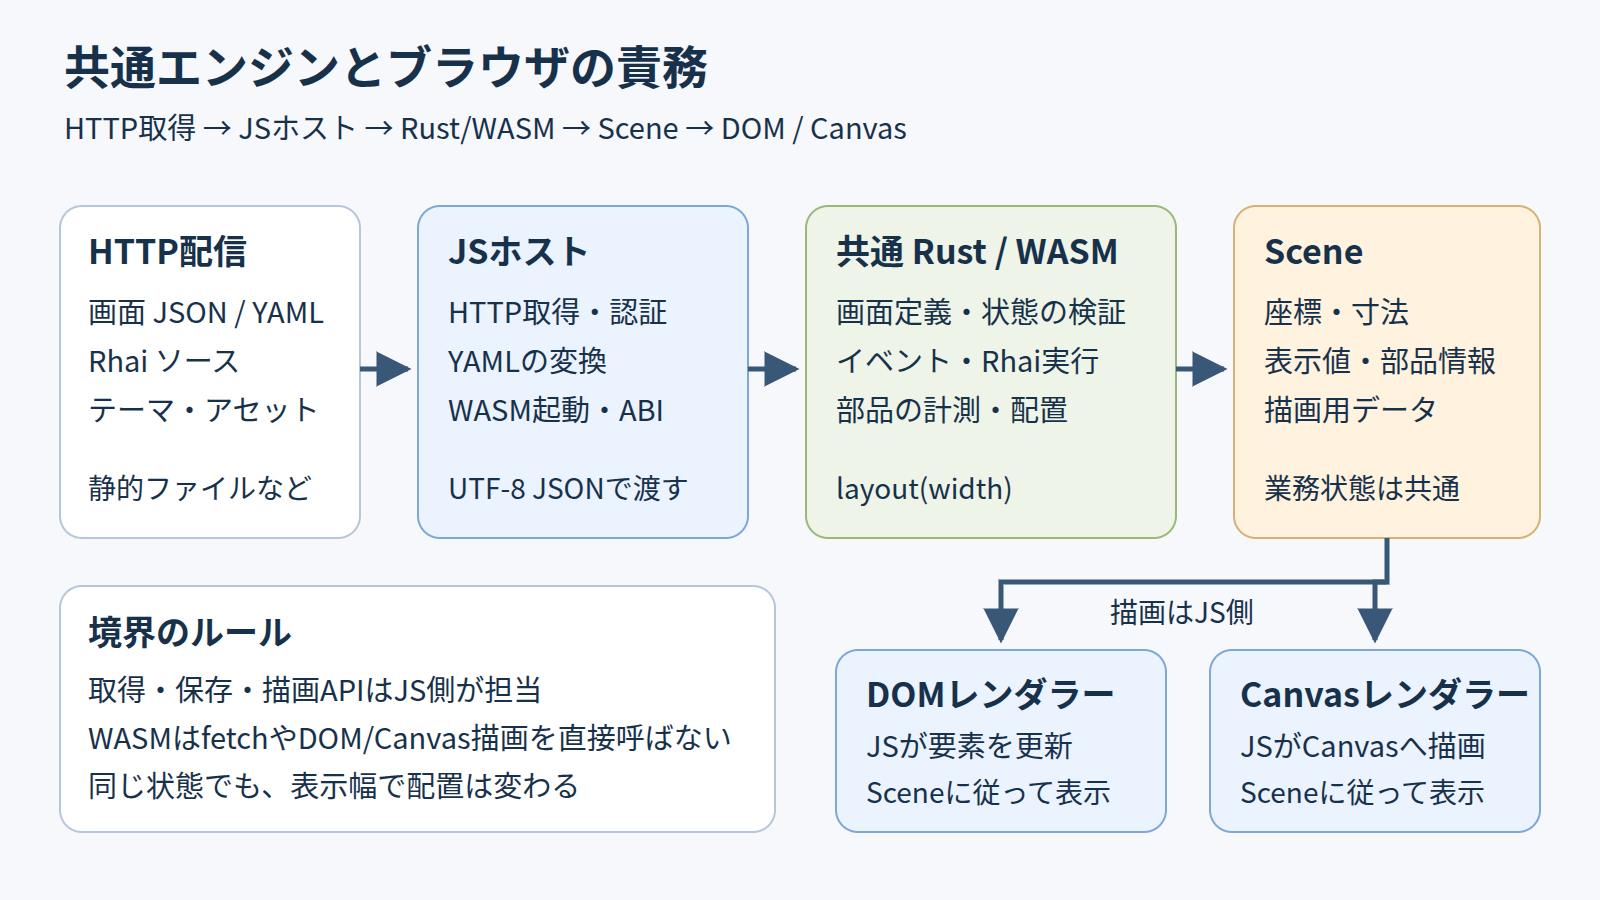
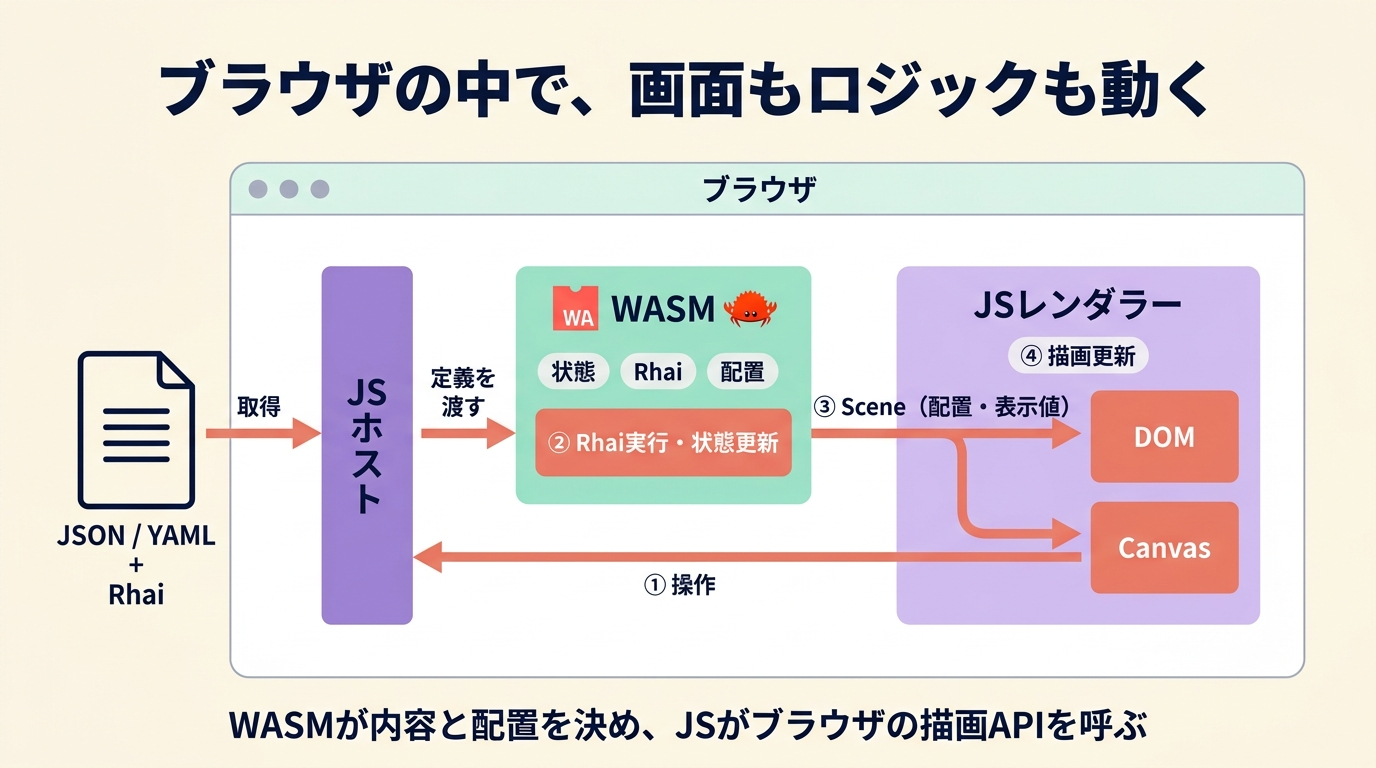
docs: enrich uivolve retrospective blog

diff --git a/.gsd-lite/BLOG-EVIDENCE.md b/.gsd-lite/BLOG-EVIDENCE.md
@@ -1,6 +1,6 @@
 # 開発振り返り記事 根拠台帳
 
-状態: T5の文書入口・最終要件照合・最終判定まで完了。独立したverifyへ引き継ぐ。機械検査は文章の正しさや画像の可読性を認定しない。
+状態: 初稿はT5とverify/reflectまで完了。ユーザーの文体・出発点の指摘を受け、下記「初稿への編集修正」で本文を改稿。機械検査は文章の正しさや文体の好み、画像の可読性を認定しない。以下のT1〜T5の字数・判定は初稿の記録。
 
 ## 必須8内容と主張照合
 
@@ -105,3 +105,13 @@
 - 本文7926字、AI1979字、24.968%。PNG実寸はarchitecture 1600×900、event-flow 1600×1100、host-effects 1600×1080、dom-canvas 1225×296。再撮影でCPU計測表示だけが変わり、実比較領域をそのまま保存。
 - 最終ログ: `.gsd-lite/logs/development-retrospective-blog/verification-1791168900750.log`。撮影証跡: 同scratchの`capture-1791168907119.json`。Chromium 152.0.7977.64/Linux、127.0.0.1:4174/pages/hello-world、1440×1000、deviceScaleFactor=1。DOM/Canvas各起点・入力のみ不変・空白World・最後に太郎の11チェック成功、failure=null、serverStopped=true、cleanupErrors=[]。
 - 独立再実行はリポジトリルートで `bun scripts/verify-retrospective.mjs`。追跡済みの検査/撮影スクリプトとPNGを使い、scratch制作ソースや起動済みサーバーを前提にしない。既存Chromium `/usr/bin/chromium-browser` と可視ブラウザ用DISPLAY、空いている4174が必要。実行時の証跡はlogsへ生成する。公開/pushは行わない。
+
+## 初稿への編集修正
+
+- ユーザー指摘: 「ポップって感じでもない」「uivolveの元の考え方も入っていない」。初稿の見出し・絵文字・技術検査だけでは、この意図を満たしていなかった。
+- 原資料: `/home/parallels/workspaces/uivolve/README.md`、HEADは `3d22a3cfab5488afe3c60f8775676a85c51593ec`（docs/uivolve-port.mdの参照元と同じ）。公開先のREADMEへの固定commitリンクを本文と参考リンクへ追加。
+- 原READMEの冒頭/クイックスタート/イベント宣言/Markdown・MDX統合を確認。「モックを素早く作る→DSLと使用部品のリファレンスをAIへ渡して任意のUIライブラリで本実装」「仕様書とモックを同じソースで管理」「元のhandlerは宣言のみ」を新しい出発点の根拠にした。
+- 改稿は、この目的から今回のstate/Rhai実行・Scene・WebMCP・Workerモック/UTへつながる順で説明。元のMarkdown統合やAI用コピーがuivolve-webへ移植済みとは書かない。長い検証手順や防御的な注意文を本文の流れから減らし、短い段落と具体例、丁寧な呼びかけで文体を改めた。
+- Worker YAMLを2件のseedがあるミニ版へ変更し、直後のUTの2件期待値と一致させた。その他の掲載JSON/Rhai/実WASM/モデルUTは現行の完全例へ照合。
+- 再実行: `bun .gsd-lite/logs/development-retrospective-blog/scratch/editorial-revision-excerpts.mjs`。本文からJSON/Rhai/YAML/JavaScriptを抽出し、実WASM/モデルで成功。入力のみ不変・Hello 太郎・Scene・空白World、ミニYAMLと完全definitionの2件を確認。OPFSの20試行/5697秒も再集計。結果は同scratchのeditorial-revision-results.json。
+- `bun scripts/check-retrospective.mjs --stage complete`: 本文7735字、AI1917字（24.783%）、8節/コード例/相対画像リンク/PNG4枚/入口1件成功。既存の画像とランタイムを変更していないため、今回の修正で全ブラウザ撮影やランタイム全回帰は繰り返さない。

diff --git a/.gsd-lite/DECISIONS.md b/.gsd-lite/DECISIONS.md
@@ -1,5 +1,18 @@
 # 開発振り返りブログ 決定記録
 
+## 将来メモ
+
+- 共通のSceneを受け取る**SVGレンダラー**を、将来の描画先候補として残す。WASMは状態・Rhai・レイアウト・Scene生成を共有し、SVG側はJavaScriptでSVG要素を更新する構成を想定する。
+- 現時点では実装しない。印刷、拡大、図としての書き出しには利点があり得る一方、頻繁に更新する入力欄や大規模な一覧にはDOM／Canvasの方が扱いやすい。既存のDOM／Canvas APIと契約は変更しない。
+
+## 初稿への編集修正
+
+- ユーザーからポップさと元のuivolveの考え方の不足を指摘された。初稿は技術説明に寄せすぎ、元の目的を「宣言的な部品・配置」に縮めていた。
+- 元プロジェクトの同一参照commitのREADMEを読み、モック→AIによる本実装、仕様書とモックの同一ソース管理、AI用コピーと部品リファレンス、元のhandlerの宣言という目的を本文冒頭へ追加する。
+- タイトルを「🧩 モックから『動く画面』へ！uivolveをRust/WASMで育ててみた」の方向へ改め、軽快な導入・短い段落・具体例を使って本文全体を改稿する。元の狙いから共通エンジン・WebMCP・モック/UTへつながる話にする。
+- 原資料の追加参照は、ユーザーが求めた元の考え方を補うためのもの。初回researchの調査範囲を遡って変更したことにはしない。
+- 文章とWorker YAMLの掲載例を変更し、画像とランタイムは保持。本文から抜粋を抽出して実行確認し、completeと文書/整形の検査を行う。元のverify/reflect記録は初稿の記録として保持する。
+
 ## 主題・読者
 
 - ユーザーが「開発全体とAI運用」「WASMに関心のある技術者」「日本語Markdown原稿」を選択。
@@ -13,7 +26,7 @@
 - 内部コードの長い抜粋を並べる案より、「小さな画面が動く流れを追う」を選択。実在するHello WorldのJSON/Rhaiに例を統一し、ABIは要点のみ説明する。
 - 最終の自由入力で文体を**「ポップで丁寧。絵文字を多めに」**と指定。現在の正準の文体はこれ。カジュアルでも乱暴な口調や創作した失敗談にはしない。
 - 本文の字数はコード・参考リンク一覧・リンク先URL・Markdown装飾を除く読者向けテキストのUnicode文字数。図の説明を含み、画像altは除外。planで同じ数え方を固定する。
-- AI運用は2〜3割。機能一覧を短くし、責務・状態確定・非同期I/Oの説明を厚くする。
+- ユーザーの再編集でAI開発の振り返り本文は約半分へ圧縮し、開発ループ・BLOCKEDからの再開・数値・検証の学びを図へ移す。AI運用の本文比率は5〜15%とする。機能一覧を短くし、責務・状態確定・非同期I/Oの説明を厚くする。
 
 ## 配置・画像
 

diff --git a/.gsd-lite/REQUIREMENTS.md b/.gsd-lite/REQUIREMENTS.md
@@ -3,13 +3,21 @@
 状態: 要件確定。2026-10-05の対話・選択式質問で合意し、ユーザーが実装を指示した。
 マイルストーン: development-retrospective-blog。
 
+## 初稿への編集修正（ユーザー指摘）
+
+- 「ポップって感じでもない」「uivolveの元の考え方も入っていない」と指摘された。見出しに絵文字を入れるだけでなく、読者が目的と具体例を追える軽快で丁寧な語り口へ改稿する。
+- 出発点の説明に元のuivolveのREADMEを使う。モックを素早く作る→DSLと部品リファレンスをAIへ渡す→任意のUIライブラリで本実装する目的、Markdown/MDXの仕様書とモックを同じソースで扱う考えを説明する。
+- 元READMEはローカルの `/home/parallels/workspaces/uivolve/README.md`、参照commitは `3d22a3cfab5488afe3c60f8775676a85c51593ec`。初回researchの「このrepoのみ」に加え、この編集では移植元の原資料を参照する。新しい外部比較は行わない。
+- 元のモックのhandler宣言と、こちらでRhaiを実行する設計を区別してつなぐ。元のMarkdown統合/AI用コピーをuivolve-webへ実装済みとは記述しない。
+- その後の編集で、公開デモ・受注管理・AI開発ループの図を追加し、AI節は図で要点を伝えるため本文の約半分へ圧縮する。技術検証の合格を文体へのユーザーの合意と扱わない。
+
 ## 目的・読者・主題
 
 - uivolve-webの開発全体とAI運用を振り返る、日本語の技術ブログを作成する。
 - 読者はWASMに関心のある技術者。中心はRust/WASMで状態・イベント・レイアウトを共有し、DOMとCanvasを描き分ける設計。
 - 出発点は「uivolveの宣言的な部品・配置の考えをWebへ移す」。性能改善が動機だったなど、記録やユーザーの発言にない動機を創作しない。
 - 文体は**ポップで丁寧、絵文字多め**。適度な短い段落、自然な「です・ます」、見出しと説明にも絵文字を入れる。技術的な正確さと読みやすさを維持する。
-- AI運用は本文の約2〜3割。一般的な機能一覧を短くし、共通エンジンの設計に紙幅を使う。
+- AI運用の本文は約5〜15%。開発ループ、BLOCKEDからの人の判断、検証の学びは図でも伝える。一般的な機能一覧を短くし、共通エンジンの設計に紙幅を使う。
 
 ## 成果物・配置
 

diff --git a/.gsd-lite/VERIFICATION.md b/.gsd-lite/VERIFICATION.md
@@ -1,6 +1,8 @@
 # VERIFICATION — development-retrospective-blog
 
-判定: 合格（turn 8、初回検証）。main...HEADの全差分をレビュー。コード/セキュリティとも差し戻しなし。
+判定: 初稿の技術検証は合格（turn 8、初回検証）。main...HEADの全差分をレビュー。コード/セキュリティとも差し戻しなし。後にユーザーから文体と元のuivolveの考え方の不足を指摘され、本文を編集修正した。以下の字数と撮影結果は初稿時点の記録であり、文体へのユーザーの合意を意味しない。
+
+改稿後: `BLOG-EVIDENCE.md` の「初稿への編集修正」を参照。元のREADME（参照commit一致）を確認し、モック→AIによる本実装/仕様書とモックの同一ソース管理を追加。掲載例の実行確認と記事complete検査が成功（7735字、AI24.783%）。画像とランタイムの変更はない。
 
 ## 要件照合
 
